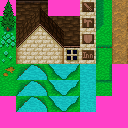
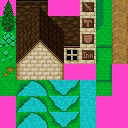
Added roof tiles.

Changed region(s): [[0.125, 0.125, 0.75, 0.625], [0.125, 0.875, 0.75, 1.0]]

diff --git a/game/org/pandcorps/rpg/RpgGame.java b/game/org/pandcorps/rpg/RpgGame.java
@@ -54,7 +54,7 @@ public class RpgGame extends BaseGame {
 		private QuaintTileListener(final TileMapImage[][] imgMap) {
 			for (int x = 1; x <= 5; x++) {
 				for (int y = 0; y <= 2; y++) {
-					map.put(imgMap[4 + y][x], imgMap[4 + ((y + 1) % 3)][x]);
+					map.put(imgMap[5 + y][x], imgMap[5 + ((y + 1) % 3)][x]);
 				}
 			}
 		}
@@ -82,7 +82,9 @@ public class RpgGame extends BaseGame {
 		final TileMapImage[][] imgMap = tm.splitImageMap();
 		tm.setTileListener(new QuaintTileListener(imgMap));
 		tm.fillBackground(imgMap[5][0]);
-		tm.getTile(6, 6).setBackground(imgMap[3][1]);
+		tm.getTile(6, 5).setBackground(imgMap[4][1]);
+		tm.getTile(6, 5).setSolid(true);
+		tm.getTile(6, 6).setBackground(imgMap[4][1]);
 		tm.getTile(6, 6).setSolid(true);
 		tm.getTile(6, 7).setBackground(imgMap[3][1]);
 		tm.getTile(6, 7).setSolid(true);
@@ -91,7 +93,9 @@ public class RpgGame extends BaseGame {
 		tm.getTile(6, 9).setBackground(imgMap[1][1]);
 		tm.getTile(6, 9).setSolid(true);
 		tm.getTile(6, 10).setForeground(imgMap[0][1]);
-		tm.getTile(7, 6).setBackground(imgMap[3][4]); // Window
+		tm.getTile(7, 5).setBackground(imgMap[3][4]); // Window
+		tm.getTile(7, 5).setSolid(true);
+		tm.getTile(7, 6).setBackground(imgMap[4][2]);
 		tm.getTile(7, 6).setSolid(true);
 		tm.getTile(7, 7).setBackground(imgMap[3][2]);
 		tm.getTile(7, 7).setSolid(true);
@@ -100,7 +104,9 @@ public class RpgGame extends BaseGame {
 		tm.getTile(7, 9).setBackground(imgMap[1][2]);
 		tm.getTile(7, 9).setSolid(true);
 		tm.getTile(7, 10).setForeground(imgMap[0][2]);
-		tm.getTile(8, 6).setBackground(imgMap[3][3]);
+		tm.getTile(8, 5).setBackground(imgMap[4][3]);
+		tm.getTile(8, 5).setSolid(true);
+		tm.getTile(8, 6).setBackground(imgMap[4][3]);
 		tm.getTile(8, 6).setSolid(true);
 		tm.getTile(8, 7).setBackground(imgMap[3][3]);
 		tm.getTile(8, 7).setSolid(true);
@@ -110,9 +116,9 @@ public class RpgGame extends BaseGame {
 		tm.getTile(8, 9).setSolid(true);
 		tm.getTile(8, 10).setForeground(imgMap[0][1]);
 		for (int i = 9; i <= 11; i++) {
-    		tm.getTile(i, 7).setBackground(imgMap[3][2]);
+    		tm.getTile(i, 7).setBackground(imgMap[4][2]);
             tm.getTile(i, 7).setSolid(true);
-            tm.getTile(i, 8).setBackground(imgMap[3][2]);
+            tm.getTile(i, 8).setBackground(imgMap[4][2]);
             tm.getTile(i, 8).setSolid(true);
             tm.getTile(i, 9).setBackground(imgMap[2][4]);
             tm.getTile(i, 9).setSolid(true);
@@ -124,44 +130,44 @@ public class RpgGame extends BaseGame {
 		tm.getTile(4, 8).setBackground(imgMap[1][0]); // Tree
 		tm.getTile(4, 8).setSolid(true);
 		tm.getTile(4, 9).setForeground(imgMap[0][0]);
-		tm.getTile(7, 4).setBackground(imgMap[2][0]); // Many flowers
-		tm.getTile(9, 2).setBackground(imgMap[3][0]); // Some flowers
+		tm.getTile(7, 3).setBackground(imgMap[2][0]); // Many flowers
+		tm.getTile(9, 1).setBackground(imgMap[3][0]); // Some flowers
 		tm.getTile(11, 11).setBackground(imgMap[3][0]);
-		tm.getTile(12, 3).setBackground(imgMap[4][0]); // Dirt patch
+		tm.getTile(12, 2).setBackground(imgMap[4][0]); // Dirt patch
 		tm.getTile(2, 5).setBackground(imgMap[2][6]);
 		tm.getTile(3, 5).setBackground(imgMap[2][6]);
-		tm.getTile(1, 4).setBackground(imgMap[4][1]); // Water
+		tm.getTile(1, 4).setBackground(imgMap[5][1]); // Water
 		tm.getTile(1, 4).setSolid(true);
-		tm.getTile(2, 4).setBackground(imgMap[4][5]);
+		tm.getTile(2, 4).setBackground(imgMap[5][5]);
 		tm.getTile(2, 4).setSolid(true);
-		tm.getTile(3, 4).setBackground(imgMap[4][5]);
+		tm.getTile(3, 4).setBackground(imgMap[5][5]);
 		tm.getTile(3, 4).setSolid(true);
-		tm.getTile(4, 4).setBackground(imgMap[4][2]);
+		tm.getTile(4, 4).setBackground(imgMap[5][2]);
 		tm.getTile(4, 4).setSolid(true);
 		tm.getTile(0, 3).setBackground(imgMap[4][6]);
-		tm.getTile(1, 3).setBackground(imgMap[4][5]);
+		tm.getTile(1, 3).setBackground(imgMap[5][5]);
 		tm.getTile(1, 3).setSolid(true);
-		tm.getTile(2, 3).setBackground(imgMap[4][5]);
+		tm.getTile(2, 3).setBackground(imgMap[5][5]);
 		tm.getTile(2, 3).setSolid(true);
-		tm.getTile(3, 3).setBackground(imgMap[4][5]);
+		tm.getTile(3, 3).setBackground(imgMap[5][5]);
 		tm.getTile(3, 3).setSolid(true);
-		tm.getTile(4, 3).setBackground(imgMap[4][5]);
+		tm.getTile(4, 3).setBackground(imgMap[5][5]);
 		tm.getTile(4, 3).setSolid(true);
 		tm.getTile(5, 3).setBackground(imgMap[3][6]);
 		tm.getTile(0, 2).setBackground(imgMap[4][6]);
-		tm.getTile(1, 2).setBackground(imgMap[4][5]);
+		tm.getTile(1, 2).setBackground(imgMap[5][5]);
 		tm.getTile(1, 2).setSolid(true);
-		tm.getTile(2, 2).setBackground(imgMap[4][5]);
+		tm.getTile(2, 2).setBackground(imgMap[5][5]);
 		tm.getTile(2, 2).setSolid(true);
-		tm.getTile(3, 2).setBackground(imgMap[4][5]);
+		tm.getTile(3, 2).setBackground(imgMap[5][5]);
 		tm.getTile(3, 2).setSolid(true);
-		tm.getTile(4, 2).setBackground(imgMap[4][4]);
+		tm.getTile(4, 2).setBackground(imgMap[5][4]);
 		tm.getTile(4, 2).setSolid(true);
-		tm.getTile(1, 1).setBackground(imgMap[4][3]);
+		tm.getTile(1, 1).setBackground(imgMap[5][3]);
 		tm.getTile(1, 1).setSolid(true);
-		tm.getTile(2, 1).setBackground(imgMap[4][5]);
+		tm.getTile(2, 1).setBackground(imgMap[5][5]);
 		tm.getTile(2, 1).setSolid(true);
-		tm.getTile(3, 1).setBackground(imgMap[4][4]);
+		tm.getTile(3, 1).setBackground(imgMap[5][4]);
 		tm.getTile(3, 1).setSolid(true);
 		tm.getTile(2, 0).setBackground(imgMap[5][6]);
 		tm.getTile(10, 6).setBackground(imgMap[3][7]); // Path
@@ -174,10 +180,10 @@ public class RpgGame extends BaseGame {
 		}
 		room.addActor(tm);
 		final Container barrel = new Container(containers[2], null);
-		barrel.setPosition(tm.getTile(6, 5));
+		barrel.setPosition(tm.getTile(6, 4));
 		room.addActor(barrel);
 		final Container chest = new Container(containers[0], containers[1]);
-		chest.setPosition(tm.getTile(8, 5));
+		chest.setPosition(tm.getTile(8, 4));
 		room.addActor(chest);
 		final Player player = new Player("act.player");
 		player.setPosition(tm.getTile(5, 5));
